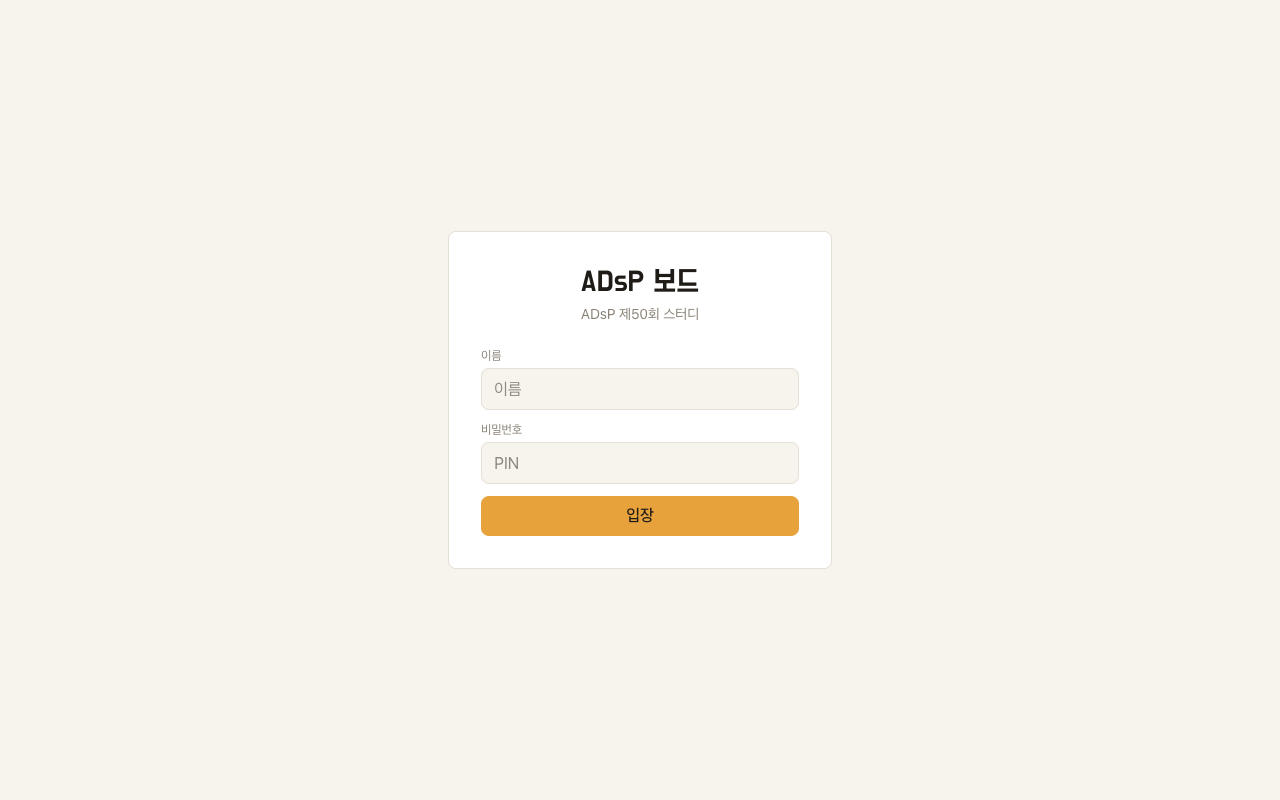
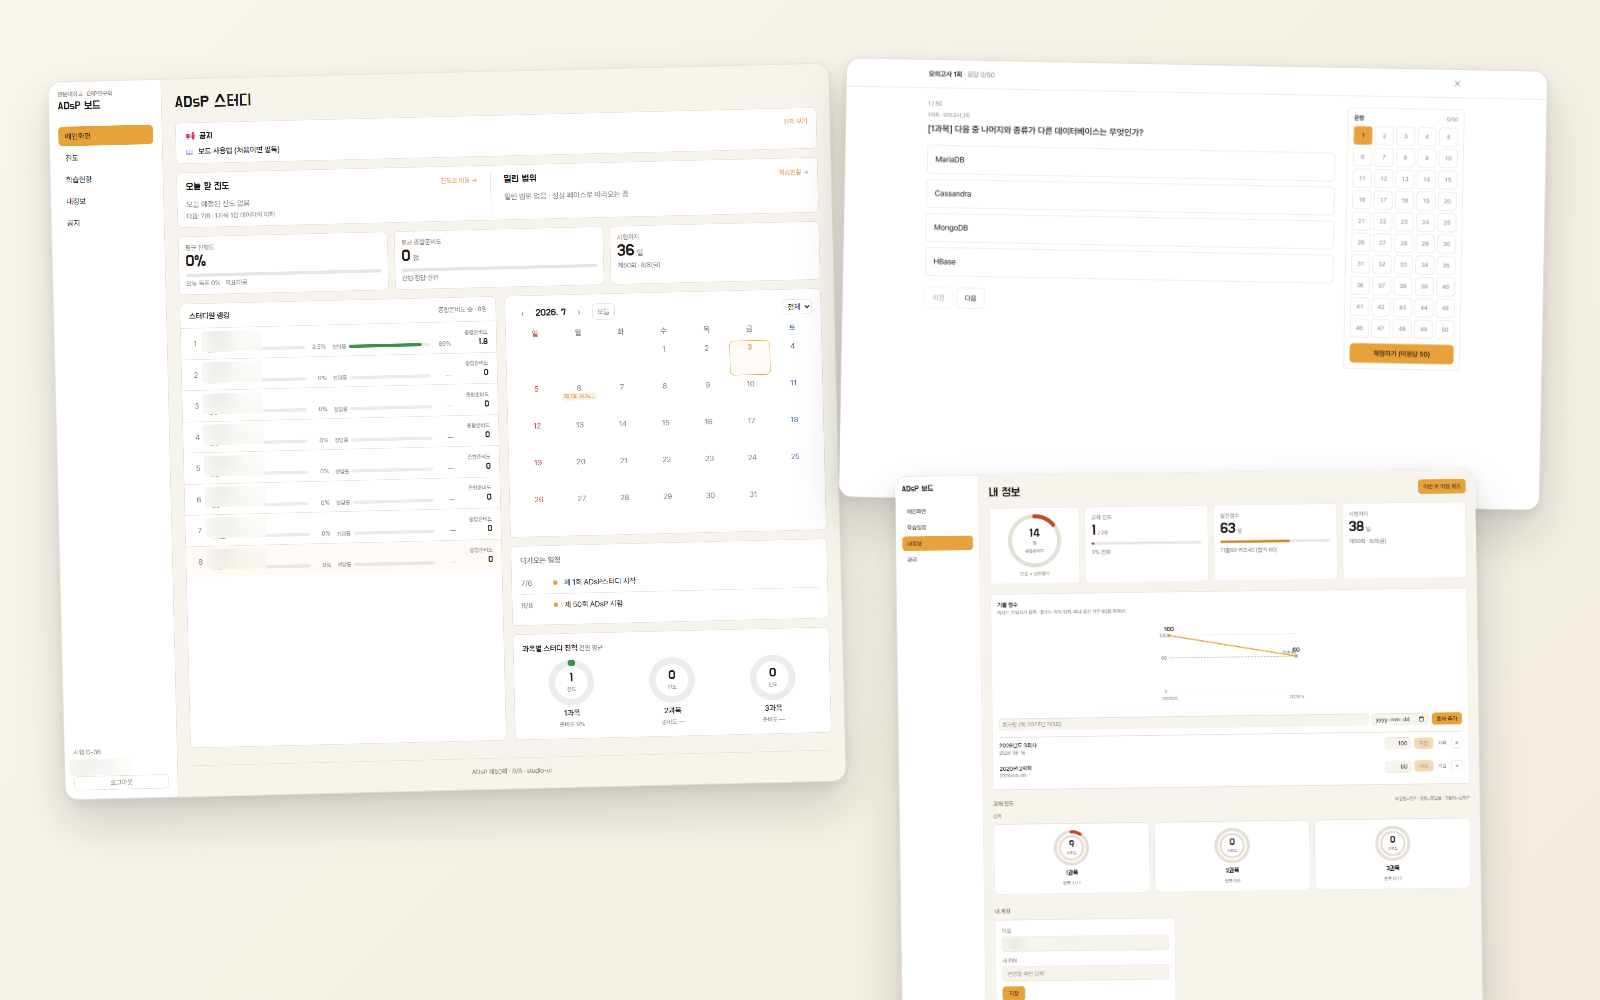
feat(projects): ADsP 상세 여정 시각화 — ::: 로드맵·::: 결정 블록 신설 + 커버 합성 교체
- Markdown 컨테이너 += 로드맵(세로 타임라인)·결정(문제→결정/근거 카드), 두 셸 css 동일 정의
- ADsP 본문 재작성: 상단 로드맵 9노드+핵심 결정 4카드, 국면별 문제/결정/AI 구조로 압축
- 커버 = 로그인 캡처 → 핵심 화면 3장(운영 홈·전과목 실전·내정보) 겹침 합성 1600×1000
- 테스트 129(신규 2)·validate·lint·build GREEN

Claude-Session: https://claude.ai/code/session_01Leunnwacjzc8Ztr4sKZxeb

diff --git a/app/src/styles/articles.css b/app/src/styles/articles.css
@@ -209,6 +209,27 @@
 .hub-md .md-stat-desc { font-size: 0.86rem; color: var(--text-sub); line-height: 1.45; word-break: keep-all; }
 .hub-md .md-stat-src { font-size: 0.72rem; color: var(--text-sub); margin-top: 0.5rem; } /* 수치 출처 각주(stat-src) */
 
+/* ── ::: 로드맵 — 프로젝트 여정 세로 타임라인(레일+도트, 홈 rmap 문법 축소판) ── */
+.hub-md .md-roadmap { list-style: none; margin: 0 0 1.9rem; padding: 1.15rem 1.3rem; background: var(--surface); border: 1px solid var(--line); border-radius: 10px; }
+.hub-md .md-roadmap li { display: flex; gap: 0.85rem; margin: 0; padding: 0 0 0.85rem; align-items: baseline; }
+.hub-md .md-roadmap li:last-child { padding-bottom: 0; }
+.hub-md .md-rm-date { flex: 0 0 3.2rem; font-size: 0.75rem; font-weight: 700; color: var(--text-sub); font-variant-numeric: tabular-nums; }
+.hub-md .md-rm-mark { flex: 0 0 9px; position: relative; align-self: stretch; }
+.hub-md .md-rm-mark::before { content: ''; position: absolute; left: 3px; top: 0.6em; bottom: -0.5em; width: 1px; background: var(--line); }
+.hub-md .md-roadmap li:last-child .md-rm-mark::before { display: none; }
+.hub-md .md-rm-mark::after { content: ''; position: absolute; left: 0; top: 0.3em; width: 7px; height: 7px; border-radius: 50%; background: var(--accent); } /* 타임라인 도트(화이트리스트 — 홈 rm-dot 승계) */
+.hub-md .md-rm-body { flex: 1; font-size: 0.92rem; line-height: 1.5; word-break: keep-all; }
+.hub-md .md-rm-sub { display: block; font-size: 0.83rem; color: var(--text-sub); }
+
+/* ── ::: 결정 — 의사결정 로직 카드(문제 → 결정 / 근거) ── */
+.hub-md .md-decisions { display: grid; gap: 1px; background: var(--line); border: 1px solid var(--line); border-radius: 10px; overflow: hidden; margin: 0 0 1.9rem; }
+.hub-md .md-decision { background: var(--bg); padding: 0.85rem 1.1rem; }
+.hub-md .md-dc-flow { margin: 0; font-size: 0.92rem; line-height: 1.5; word-break: keep-all; }
+.hub-md .md-dc-q { color: var(--text-sub); }
+.hub-md .md-dc-arrow { margin: 0 0.45rem; color: var(--text-sub); }
+.hub-md .md-dc-a { font-weight: 700; }
+.hub-md .md-dc-why { margin: 0.3rem 0 0; font-size: 0.8rem; color: var(--text-sub); line-height: 1.5; word-break: keep-all; }
+
 .hub-md table { width: 100%; border-collapse: collapse; font-size: 0.92rem; margin: 0 0 1.6rem; display: block; overflow-x: auto; }
 .hub-md th, .hub-md td { text-align: left; padding: 0.55rem 0.8rem; border-bottom: 1px solid var(--line); line-height: 1.5; word-break: keep-all; }
 .hub-md th { background: var(--surface); font-weight: 700; font-size: 0.86rem; white-space: nowrap; }

diff --git a/app/src/styles/pages.css b/app/src/styles/pages.css
@@ -155,6 +155,25 @@
   color: var(--text-sub);
 }
 
+/* ── ::: 로드맵 / ::: 결정 — Markdown 컨테이너(articles.css와 동일 정의 — 두 셸이 분리 로드되는 구조라 중복 유지) ── */
+.hub-md .md-roadmap { list-style: none; margin: 0 0 1.9rem; padding: 1.15rem 1.3rem; background: var(--surface); border: 1px solid var(--line); border-radius: 10px; }
+.hub-md .md-roadmap li { display: flex; gap: 0.85rem; margin: 0; padding: 0 0 0.85rem; align-items: baseline; }
+.hub-md .md-roadmap li:last-child { padding-bottom: 0; }
+.hub-md .md-rm-date { flex: 0 0 3.2rem; font-size: 0.75rem; font-weight: 700; color: var(--text-sub); font-variant-numeric: tabular-nums; }
+.hub-md .md-rm-mark { flex: 0 0 9px; position: relative; align-self: stretch; }
+.hub-md .md-rm-mark::before { content: ''; position: absolute; left: 3px; top: 0.6em; bottom: -0.5em; width: 1px; background: var(--line); }
+.hub-md .md-roadmap li:last-child .md-rm-mark::before { display: none; }
+.hub-md .md-rm-mark::after { content: ''; position: absolute; left: 0; top: 0.3em; width: 7px; height: 7px; border-radius: 50%; background: var(--accent); } /* 타임라인 도트(화이트리스트 — 홈 rm-dot 승계) */
+.hub-md .md-rm-body { flex: 1; font-size: 0.92rem; line-height: 1.5; word-break: keep-all; }
+.hub-md .md-rm-sub { display: block; font-size: 0.83rem; color: var(--text-sub); }
+.hub-md .md-decisions { display: grid; gap: 1px; background: var(--line); border: 1px solid var(--line); border-radius: 10px; overflow: hidden; margin: 0 0 1.9rem; }
+.hub-md .md-decision { background: var(--bg); padding: 0.85rem 1.1rem; }
+.hub-md .md-dc-flow { margin: 0; font-size: 0.92rem; line-height: 1.5; word-break: keep-all; }
+.hub-md .md-dc-q { color: var(--text-sub); }
+.hub-md .md-dc-arrow { margin: 0 0.45rem; color: var(--text-sub); }
+.hub-md .md-dc-a { font-weight: 700; }
+.hub-md .md-dc-why { margin: 0.3rem 0 0; font-size: 0.8rem; color: var(--text-sub); line-height: 1.5; word-break: keep-all; }
+
 /* ── 발원 기사 링크 (상세) ── */
 .sem-origin { font-size: 0.84rem; color: var(--text-sub); margin: 0 0 1.5rem; }
 .sem-origin a { /* Tertiary — 버건디 밑줄(화이트리스트 ⑥) */

diff --git a/app/src/pages/Markdown.jsx b/app/src/pages/Markdown.jsx
@@ -12,7 +12,7 @@ const container = {
     return m ? m.index + (m[1] ? 1 : 0) : undefined
   },
   tokenizer(src) {
-    const m = /^:::\s*(요약|수치|용어|출처)\s*\n([\s\S]*?)\n:::\s*(?:\n+|$)/.exec(src)
+    const m = /^:::\s*(요약|수치|용어|출처|로드맵|결정)\s*\n([\s\S]*?)\n:::\s*(?:\n+|$)/.exec(src)
     if (!m) return
     const token = { type: 'container', raw: m[0], kind: m[1], text: m[2], tokens: [] }
     if (m[1] === '요약') this.lexer.blockTokens(m[2], token.tokens)
@@ -27,6 +27,18 @@ const container = {
       const items = rows(token.text).map(([num, desc, src]) =>
         `<div class="md-stat"><span class="md-stat-num">${esc(num)}</span><span class="md-stat-desc">${esc(desc || '')}</span>${src ? `<span class="md-stat-src">${esc(src)}</span>` : ''}</div>`).join('')
       return `<div class="md-stats">${items}</div>`
+    }
+    if (token.kind === '로드맵') {
+      // 행 형식: 날짜 | 제목 | 한 줄(선택) — 프로젝트 여정 세로 타임라인
+      const items = rows(token.text).map(([date, title, sub]) =>
+        `<li><span class="md-rm-date">${esc(date)}</span><span class="md-rm-mark" aria-hidden="true"></span><span class="md-rm-body"><strong>${esc(title || '')}</strong>${sub ? `<span class="md-rm-sub">${esc(sub)}</span>` : ''}</span></li>`).join('')
+      return `<ol class="md-roadmap">${items}</ol>`
+    }
+    if (token.kind === '결정') {
+      // 행 형식: 문제 | 결정 | 근거(선택) — 의사결정 로직 카드
+      const items = rows(token.text).map(([q, a, why]) =>
+        `<div class="md-decision"><p class="md-dc-flow"><span class="md-dc-q">${esc(q)}</span><span class="md-dc-arrow" aria-hidden="true">→</span><strong class="md-dc-a">${esc(a || '')}</strong></p>${why ? `<p class="md-dc-why">${esc(why)}</p>` : ''}</div>`).join('')
+      return `<div class="md-decisions">${items}</div>`
     }
     if (token.kind === '용어') {
       // 행 형식: 용어 | 설명 — 본문 ¹⁾²⁾ 각주 마커와 순번 대응(글 하단 작은 글씨)

diff --git a/app/src/pages/Markdown.test.jsx b/app/src/pages/Markdown.test.jsx
@@ -44,6 +44,25 @@ describe('Markdown 서식 확장', () => {
     expect(html).not.toContain('javascript:alert')
   })
 
+  it('::: 로드맵 블록 = 날짜·제목·한줄 타임라인 렌더', () => {
+    const html = renderToString(<Markdown body={'::: 로드맵\n06-26 | 스터디 시작 | 운영 모델 확정\n06-28 | 보드 탄생\n:::'} />)
+    expect(html).toContain('md-roadmap')
+    expect(html).toContain('06-26')
+    expect(html).toContain('스터디 시작')
+    expect(html).toContain('운영 모델 확정')
+    expect(html).toContain('보드 탄생')
+  })
+
+  it('::: 결정 블록 = 문제→결정·근거 카드 렌더 + 이스케이프', () => {
+    const html = renderToString(<Markdown body={'::: 결정\n수기 집계인가 | 웹앱 제작 | 매주 걷는 비용 제거\n<b>x | y\n:::'} />)
+    expect(html).toContain('md-decisions')
+    expect(html).toContain('수기 집계인가')
+    expect(html).toContain('웹앱 제작')
+    expect(html).toContain('매주 걷는 비용 제거')
+    expect(html).not.toContain('<b>x')
+    expect(html).toContain('&lt;b&gt;x')
+  })
+
   it('GFM 표 = table 렌더', () => {
     const html = renderToString(<Markdown body={'| 항목 | 값 |\n|---|---|\n| 도입 | 88% |'} />)
     expect(html).toContain('<table>')

diff --git a/app/content/프로젝트/2026-07-24-bapzzi-adsp-board.md b/app/content/프로젝트/2026-07-24-bapzzi-adsp-board.md
@@ -8,64 +8,81 @@ date: 2026-07-24
 web: https://erpstudy.vercel.app
 ---
 
-- ADsP(데이터분석 준전문가) 제50회(2026-08-08) 합격이 목표인 비전공 그룹 스터디. 주 1회 오프라인 + 예습 기반, A·B 2팀 운영.
-- 운영 도구 = 직접 만든 진도·성취도 보드(React + Supabase, Vercel 배포) — 교재 전 범위 정리본·퀴즈·모의고사를 보드에서 학습.
-- 아래 = 스터디 시작 → 보드 탄생 → 운영·개선의 여정. 단계마다 AI(Claude Code) 활용 방식 병기. 화면 속 이름은 블러 처리.
+- ADsP(데이터분석 준전문가) 제50회(2026-08-08) 합격이 목표인 비전공 그룹 스터디. 주 1회 오프라인 + 예습 기반, A·B 2팀.
+- 운영 도구 = 직접 만든 진도·성취도 보드(React + Supabase, Vercel 배포). 교재 전 범위 정리본·퀴즈·모의고사를 보드에서 학습. 화면 속 이름은 블러 처리.
 
-### 2026-06-26 · 스터디 시작 — 운영 모델 확정
+### 진행 로드맵
 
-- 주 1회 오프라인 + 예습 기반: 각자 정리자료로 예습 → 모임 = 개념 질의·빈출 정리, 마무리 회차 = 모의고사·오답.
-- 범위 = 과목 순차(1→2→3) + 막판 기출·모의고사. 진도 관리 방식은 이 시점엔 미정 — 정리자료 배포만 계획.
+::: 로드맵
+06-26 | 스터디 시작 | 주 1회 오프라인·예습 기반 운영 모델 확정
+06-28 | 보드 탄생 | 진도 관리를 수기 대신 웹앱으로 — 당일 MVP 배포
+06-29 | 하루 4개 버전 | 시각화·권한 모델 정비 (v1.0.0→v1.3.0)
+07-01 | 교재 단일원천 전환 | 강의 요약 기반 자료 전부 폐기 — 교재 스캔 555장 직접 판독
+07-02 | 전 범위 콘텐츠화 | 신규 603문항 제작 → 전수 검증
+07-03 | v2.0.0 지표 정립 | 정답률·진행도·실전점수·종합준비도 정의 확정 + 전과목 실전
+07-07 | 지표 재설계 | 진행도를 문항 커버리지에서 완료 일차/25로 전환
+07-24 | 중간 점검 | 보드 데이터로 팀별 진도 차이 확인 → 속성 세션
+07-26 | 실전 대비 마감 | 문항 가독성 개편 + 90분 실전 타이머
+:::
 
-### 2026-06-28 · 보드 탄생 — 진도 관리를 웹앱으로
+### 핵심 결정
 
-- 진도 체크·성취도 집계를 수기로 모으는 대신 웹앱 제작으로 결정. MVP를 만들어 당일 배포(React + TypeScript + Supabase + Vercel).
-- 역할 분리 = 팀원: 진도 체크·퀴즈 응시 / 운영자: 일정·문항·공지 관리. 권한은 Postgres RLS로 분리.
+::: 결정
+진도 집계를 수기로 할 것인가 | 웹앱 제작 — 당일 MVP 배포 | 매주 걷어 모으는 비용 제거, 기록이 곧 데이터가 됨
+콘텐츠 원천을 무엇으로 할 것인가 | 교재 단일원천 — 기존 자료 전부 폐기 | 요약 강의는 검증 불가. 모든 문항에 교재 페이지 역참조
+계획대로인데 진행도 17%가 뜬다 | 지표를 완료 일차/25로 재정의 | 문항 커버리지는 일수 직관과 어긋남 — 지표를 사람 멘탈모델에 맞춤
+차트 라이브러리를 쓸 것인가 | SVG 직접 구현 | 번들 ~140kB gzip 유지 + 디자인 토큰 완전 통제
+:::
+
+### 06-26 · 스터디 시작 — 운영 모델 확정
+
+- **모델** = 주 1회 오프라인 + 예습 기반. 각자 정리자료로 예습 → 모임은 개념 질의·빈출 정리, 마무리 회차는 모의고사·오답.
+- **범위** = 과목 순차(1→2→3) + 막판 기출·모의고사. 진도 관리 방식은 이 시점엔 미정.
+
+### 06-28 · 보드 탄생 — 진도 관리를 웹앱으로
+
+- **문제** = 진도 체크·성취도 집계를 매주 사람 손으로 걷어야 함.
+- **결정** = 웹앱 제작, 당일 MVP 배포(React + TypeScript + Supabase + Vercel). 팀원=진도 체크·퀴즈 응시 / 운영자=일정·문항·공지 관리, 권한은 Postgres RLS로 분리.
 
 ![초기 보드 메인 — 스터디원 현황·캘린더](/img/projects/adsp/v1-0-dashboard.png)
 
-### 2026-06-29 · 하루 4개 버전 — MVP를 실사용 앱으로 (v1.0.0→v1.3.0)
+### 06-29 · 하루 4개 버전 — MVP를 실사용 앱으로
 
-- 메인 = 스터디원 비교 막대, 내정보 = 종합준비도 도넛, 기출 추이 그래프 — 차트 라이브러리 없이 SVG 직접 구현(번들 ~140kB gzip 유지).
-- 기출 점수 '회차 공유 모델': 운영자가 회차를 등록하면 전원이 같은 기준으로 입력(RLS + RPC 권한 분리).
-- AI 활용 = 자가검증 루프(변경 → Playwright 자동 캡처 → 자가비판 → 개선). 이 문서의 버전별 화면도 그 산출물. 67테스트 유지.
+- **문제** = 기능은 도는데 비교·추이가 안 보임(숫자 나열).
+- **결정** = 랭킹 막대·종합준비도 도넛·기출 추이 그래프를 차트 라이브러리 없이 SVG로 직접 구현. 기출 점수는 '회차 공유 모델'(운영자가 회차 등록 → 전원 같은 기준 입력, RLS + RPC).
+- **AI** = 자가검증 루프(변경 → Playwright 자동 캡처 → 자가비판 → 개선). 이 문서의 버전별 화면이 그 산출물. 67테스트 유지.
 
 ![v1.1.0 — 스터디원 비교·과목별 진척 시각화](/img/projects/adsp/v1-1-dashboard.png)
+
+### 07-01~02 · 교재 단일원천 전환 — 콘텐츠 전면 재제작
+
+- **문제** = 초기 자료의 원천이 유튜브 요약 강의 — 정확성 검증 불가.
+- **결정** = 전부 폐기, 교재 스캔 555장을 AI가 직접 판독해 절 단위 정리본·퀴즈로 재제작. 모든 문항에 교재 페이지 역참조.
+- **AI** = 병렬 서브에이전트로 분업 제작 → 전수 검증. 하루 만에 교재 전 범위 신규 603문항.
+
 ![v1.3.0 — 성취도 퀴즈](/img/projects/adsp/v1-3-quiz.png)
 
-### 2026-07-01 · 콘텐츠 전면 개편 — 교재 단일원천
+### 07-02~03 · v2.0.0 — 지표 체계 정립·전과목 실전
 
-- 유튜브 요약강의 기반 초기 자료 전부 폐기 → 교재 스캔 555장을 AI가 직접 판독해 절 단위 정리본·퀴즈로 재제작.
-- 규칙 = 모든 문항·정리에 교재 페이지 역참조, 억지 암기법 금지.
-- 다음 날(07-02) 교재 전 범위 콘텐츠화 완료 — 신규 603문항(병렬 서브에이전트 제작 → 전수 검증).
-
-### 2026-07-02~03 · v2.0.0 — 지표 체계 정립·전과목 실전
-
-- 지표 사전 정립: 정답률(누적) · 진행도 · 실전점수 · 종합준비도 — 팀 피드백(지표 혼선)을 정의 확정으로 수렴.
-- 전과목 실전(모의고사 3회·기출 3회): 전체화면 시험 + 채점 리뷰(틀린 범위·오답 목록).
-- 온보딩 = 실화면 캡처에 라벨을 얹은 사용법 가이드 페이지. 팀 표시명 A·B팀 전환.
+- **문제** = 정답률·진행도가 계산마다 다르게 읽힘(팀 피드백: 지표 혼선).
+- **결정** = 지표 사전 정립(정답률=누적 · 진행도 · 실전점수 · 종합준비도) 후 화면을 지표에 맞춰 재설계. 전과목 실전(모의 3회·기출 3회) 전체화면 시험 + 채점 리뷰. 온보딩은 실화면 캡처 가이드.
 
 ![v2.0.0 내정보 — 종합준비도·기출 추이·과목별 성취도](/img/projects/adsp/v2-myinfo.png)
 ![전과목 실전 — 전체화면 시험(50문항)](/img/projects/adsp/v2-exam.png)
 
-### 2026-07-05~07 · 운영하며 고치기 — 지표를 사람 기준으로
+### 07-05~07 · 운영하며 고치기 — 지표를 사람 기준으로
 
-- 진행도를 문항 커버리지에서 "완료 일차 ÷ 25"로 전환 — 계획대로 해도 2일차에 17%가 떠 일수 직관과 어긋났기 때문. 스터디원 멘탈모델(n일차/25일)에 지표를 맞춤.
-- 정리본을 끝까지 읽어야 완료 체크가 열리고, 체크 옆에서 바로 퀴즈로 이어지는 동선. 비스터디원 게스트 계정은 랭킹·통계에서 제외.
-- AI 활용 = 근본원인 산술 검증(54/316 = 17.1%)으로 "왜 17%인가"를 확정한 뒤 지표 재설계.
+- **문제** = 계획대로 해도 2일차 진행도가 17% — 지표가 일수 직관과 어긋남.
+- **결정** = 진행도를 "완료 일차 ÷ 25"로 재정의. 정리본을 끝까지 읽어야 완료 체크가 열리고 바로 퀴즈로 이어지는 동선. 게스트 계정은 랭킹·통계 제외.
+- **AI** = 근본원인 산술 검증(54/316 = 17.1%)으로 원인을 확정한 뒤에 재설계 — 감이 아니라 계산으로.
 
 ![운영 홈 — 오늘 할 진도·밀린 범위·랭킹·캘린더](/img/projects/adsp/home-now.png)
 
-### 2026-07-24 · 중간 점검 — 팀별 진도 차이 대응
+### 07-24~26 · 실전 대비 마감 — 시험 조건 재현
 
-- 보드 랭킹·학습현황 데이터로 팀별 진도 차이 확인 → 속성 세션 운영(1·2과목 마감 + 3과목 기출 병행).
-
-### 2026-07-26 · 실전 대비 마감 — 문항 가독성·90분 타이머
-
-- 문항 렌더러 개편: R 콘솔 출력·거래표를 시험 지면처럼 고정폭·정렬 보존으로 렌더, 개념 도해 SVG 8장, 계산·그림 신규 42문항(전수 검산).
-- 전과목 실전에 90분 카운트다운 — 실제 시험 조건(50문항 90분) 재현, 만료 시 자동 채점.
-- 주차 점검 퀴즈·연속학습 배지·진도 자동 갱신. 랭킹 진도 저평가 버그는 라이브 데이터 조회로 근본원인(API 1,000행 절단)을 확정하고 수정.
-- AI 활용 = 설계·검수와 구현을 모델 등급으로 분업(서브에이전트 7개 병렬), 교재 스캔 수치 대조 스팟체크. 183테스트.
+- **중간 점검** = 보드 랭킹·학습현황 데이터로 팀별 진도 차이 확인 → 속성 세션(1·2과목 마감 + 3과목 기출 병행).
+- **결정** = 문항을 시험 지면처럼(R 콘솔 출력·거래표 고정폭 렌더, 개념 도해 SVG 8장, 계산·그림 신규 42문항 전수 검산) + 전과목 실전에 90분 카운트다운(만료 시 자동 채점).
+- **AI** = 설계·검수와 구현을 모델 등급으로 분업(서브에이전트 7개 병렬). 랭킹 진도 저평가 버그는 라이브 데이터 조회로 근본원인(API 1,000행 절단) 확정 후 수정. 183테스트.
 
 ### 다음
 

diff --git a/README.md b/README.md
@@ -5,8 +5,9 @@
 부 = 멤버가 외부에 성과를 보여줄 때의 증빙면. 심장박동 = 정보 공유 — **AI 인사이트(이슈 아카이브) → 세미나(선별 실습)** 파이프라인.
 카피 상위 기준 = `../docs/정체성-북극성.md`(웹 비표기 내부 북극성). 사이트 자체가 스터디 방식(AI 협업·git·무료 배포)의 증거물.
 
-## 현재상태 (2026-07-27 — 프로젝트 페이지 성격 확장)
-- **"만든 것들"→"프로젝트" 개명 + 성격 확장**(2026-07-27): 배포물 전용 → 스터디 활동 기록 포함(제목·설명·빈상태·meta). ADsP 항목 = 보드 앱 소개 → **ADsP 스터디 1기 여정형**(시작→보드 탄생→운영·개선 로드맵, AI 활용 병기, 버전별 캡처 6장 — 실명 전부 블러). 로드맵 헤딩=`###`(라이트 본문, `##` 다크 프롬프트 로그 블록과 구분). 테스트 127.
+## 현재상태 (2026-07-27 — 프로젝트 페이지 성격 확장 + 여정 시각화)
+- **"만든 것들"→"프로젝트" 개명 + 성격 확장**(2026-07-27): 배포물 전용 → 스터디 활동 기록 포함(제목·설명·빈상태·meta). ADsP 항목 = 보드 앱 소개 → **ADsP 스터디 1기 여정형**(시작→보드 탄생→운영·개선 로드맵, AI 활용 병기, 버전별 캡처 6장 — 실명 전부 블러). 로드맵 헤딩=`###`(라이트 본문, `##` 다크 프롬프트 로그 블록과 구분).
+- **여정 시각화 블록 신설**(2026-07-27 후속): Markdown 컨테이너 += `::: 로드맵`(날짜|제목|한줄 세로 타임라인)·`::: 결정`(문제|결정|근거 의사결정 카드) — 두 셸(articles·pages css) 동일 정의. ADsP 상세 = 상단 로드맵 9노드+핵심 결정 4카드, 하단 국면별 **문제/결정/AI** 구조. 커버 = 로그인 화면 → 핵심 화면 3장 겹침 합성(1600×1000). 테스트 129.
 
 ## (기록) 풀블리드 개편 (2026-07-25 완결·라이브)
 - **전 페이지 6종 풀블리드 톤 통일**(오너 픽 레퍼런스 체제): 메인=100vh 히어로·마퀴·가로 타임라인 / 인사이트=색면 2열 그리드+컨트롤 바 / 세미나=D-day NEXT 밴드·구성 미리보기·에디토리얼 상세 / 프로젝트=커버 그리드·호버 오버레이·프롬프트 로그 / about·log 동일 톤. 카피=개조식·서사 비표기(§0-1). 테스트 111.
